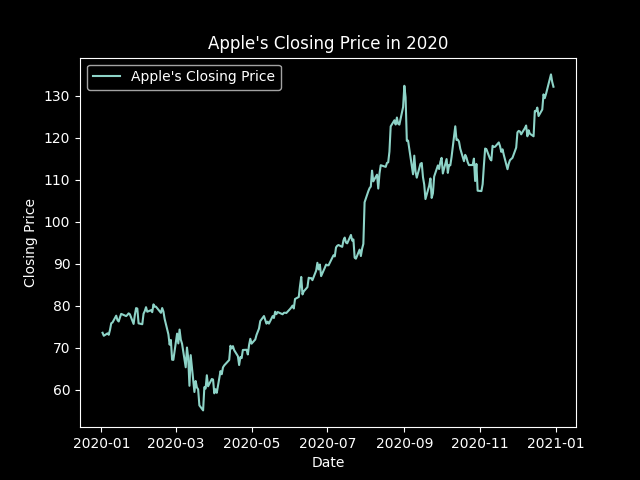
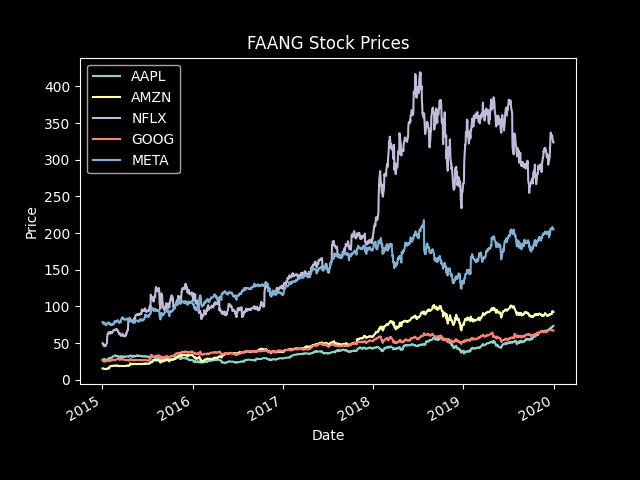
output saved to individual files

diff --git a/code-generator/src/index.js b/code-generator/src/index.js
@@ -102,7 +102,7 @@ class FormBox extends Component{
                 this.setState({response: url}); // Update the state with the image URL
             });
 
-            await fetch('https://jew256.pythonanywhere.com/output')
+            await fetch('https://jew256.pythonanywhere.com/output' + data.responses[0])
             .then(response => response.text())
             .then(text => {
                 this.setState({output: text}); 

diff --git a/test0.py b/test0.py
@@ -1,43 +1,42 @@
 
 
+import pandas as pd
 import matplotlib.pyplot as plt
-import yfinance as yf
+from datetime import datetime, timedelta
+from pandas_datareader import data
 
 try:
-    # use the yahoo finance api to get any stock data
-    data = yf.Ticker("AAPL").history(start="2020-01-01", end="2020-12-31")
+    # get stock data
+    start_date = datetime.now() - timedelta(days=1825)
+    end_date = datetime.now()
+    stocks = ['AAPL', 'AMZN', 'GOOGL', 'MSFT', 'FB']
+    df = data.DataReader(stocks, data_source='yahoo', start=start_date, end=end_date)
 
-    # Create a figure and set the style to dark
+    # create figure and set style
     plt.style.use('dark_background')
     fig = plt.figure()
 
-    # graph apple's closing price for 2020
-    plt.plot(data.index, data['Close'], label="Apple's Closing Price")
+    # graph stock prices
+    for stock in stocks:
+        df[f'Adj Close {stock}'].plot(label=stock)
 
-    # Add axes, title, and legend
+    # add axes, title, and legend
     plt.xlabel('Date')
-    plt.ylabel('Closing Price')
-    plt.title('Apple\'s Closing Price in 2020')
+    plt.ylabel('Price')
+    plt.title('FAANG Stock Prices')
     plt.legend()
 
-    # Save the graph as test0.png
-    plt.savefig('test0.png')
+    # save graph
+    plt.savefig('test1.png')
 
-    # Close the graph automatically
+    # close graph
     plt.close(fig)
 
-    # write "Successful" to output.txt
+    # write success to output.txt
     with open('output.txt', 'w') as f:
         f.write('Successful')
 
 except Exception as e:
-    # graph an error symbol and write 'Error: ', and the error to output.txt
-    plt.style.use('dark_background')
-    fig = plt.figure()
-    plt.text(0.5, 0.5, 'Error', fontsize=50, ha='center')
-    plt.savefig('test0.png')
-    plt.close(fig)
-
+    # write error to output.txt
     with open('output.txt', 'w') as f:
-        f.write('Error: ' + str(e) + '\n')
-        f.write('Hint: Make sure to provide a valid stock ticker and a readable date format.')
+        f.write(f'Error: {e}\nHint: Make sure to use the correct stock symbols and to use the free version of the Yahoo Finance API.')

diff --git a/server.py b/server.py
@@ -4,18 +4,19 @@ from flask_cors import CORS
 import openai
 import subprocess
 import time
-import config
+# import config
+import os
 
 app = Flask(__name__)
 CORS(app)
 
-openai.api_key = config.OPENAI_API_KEY
+# openai.api_key = config.OPENAI_API_KEY
+openai.api_key = os.getenv("OPENAI_API_KEY")
 openai.api_base = "https://api.openai.com/v1"
 
 @app.route("/", methods=['GET'])
 def root():
-    return jsonify({'message': 'Welcome to the party'})
-    
+    return jsonify({'message': 'Welcome to the party'})    
 
 @app.route("/code", methods=['POST'])
 def code_call():
@@ -26,8 +27,8 @@ def code_call():
     for message in code_json.values():
         req = f"""
 \"\"\"
-wrap in a try, except. if the request succeeds, write "Successful" to `output.txt`
-in the except case, instead graph an error symbol and write 'Error: ', and the error to `output.txt`
+wrap in a try, except. if the request succeeds, write "Successful" to `output{i}.txt`
+in the except case, instead graph an error symbol and write 'Error: ', and the error to `output{i}.txt`
 also in the except case, write a hint for a better prompt to `output.txt`
 make the dates readable
 the free version is being used, do not use premium features.
